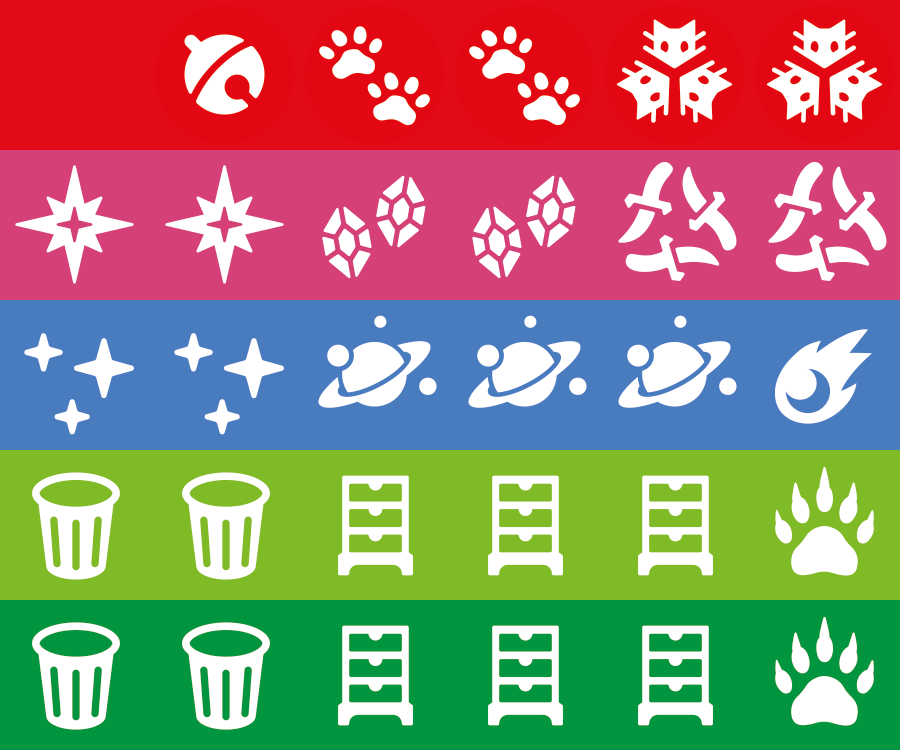
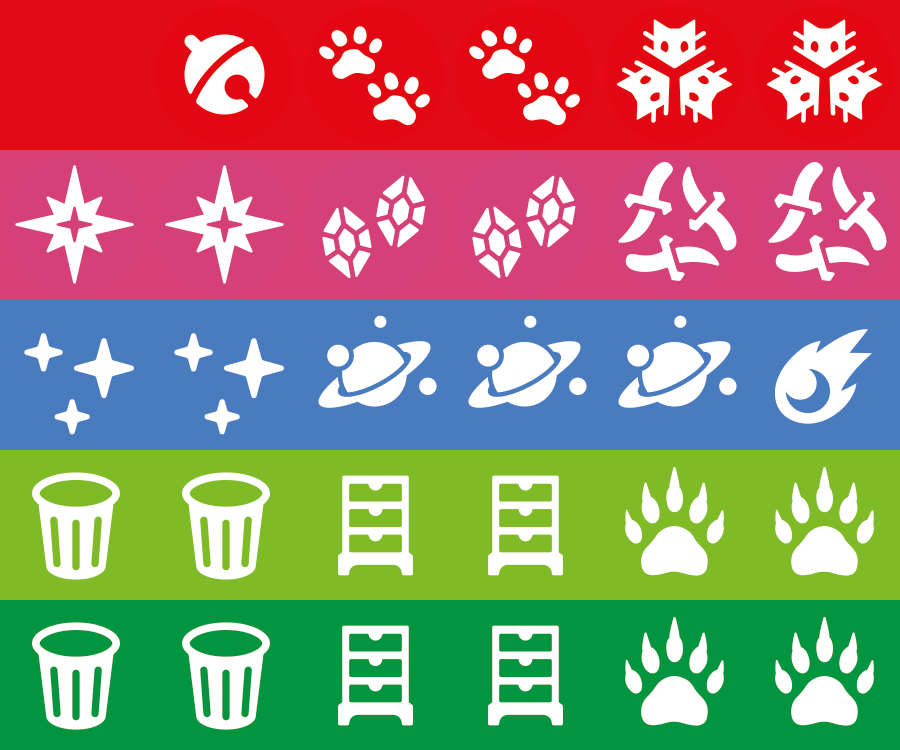
Update pangolin die faces: discard (2x), deck (2x), hand (2x)

Changed region(s): [[0.6844, 0.828, 0.8089, 0.9813], [0.6844, 0.6133, 0.8089, 0.7667]]

diff --git a/daleofmerchants.js b/daleofmerchants.js
@@ -561,9 +561,9 @@ define("components/DaleDie", ["require", "exports", "components/DaleAnimalfolk",
                 case 'hare':
                     return "<span class=\"daleofmerchants-log-span\">\n                    ".concat(DaleDie.getIconTpl(DaleDie.DIE_STARS), "\n                    ").concat(DaleDie.getIconTpl(DaleDie.DIE_STARS), "\n                    ").concat(DaleDie.getIconTpl(DaleDie.DIE_PLANET), "\n                    ").concat(DaleDie.getIconTpl(DaleDie.DIE_PLANET), "\n                    ").concat(DaleDie.getIconTpl(DaleDie.DIE_PLANET), "\n                    ").concat(DaleDie.getIconTpl(DaleDie.DIE_COMET), "\n                </span>");
                 case 'pangolin1':
-                    return "<span class=\"daleofmerchants-log-span\">\n                    ".concat(DaleDie.getIconTpl(DaleDie.DIE_DISCARD), "\n                    ").concat(DaleDie.getIconTpl(DaleDie.DIE_DISCARD), "\n                    ").concat(DaleDie.getIconTpl(DaleDie.DIE_DECK), "\n                    ").concat(DaleDie.getIconTpl(DaleDie.DIE_DECK), "\n                    ").concat(DaleDie.getIconTpl(DaleDie.DIE_DECK), "\n                    ").concat(DaleDie.getIconTpl(DaleDie.DIE_HAND), "\n                </span>");
+                    return "<span class=\"daleofmerchants-log-span\">\n                    ".concat(DaleDie.getIconTpl(DaleDie.DIE_DISCARD), "\n                    ").concat(DaleDie.getIconTpl(DaleDie.DIE_DISCARD), "\n                    ").concat(DaleDie.getIconTpl(DaleDie.DIE_DECK), "\n                    ").concat(DaleDie.getIconTpl(DaleDie.DIE_DECK), "\n                    ").concat(DaleDie.getIconTpl(DaleDie.DIE_HAND), "\n                    ").concat(DaleDie.getIconTpl(DaleDie.DIE_HAND), "\n                </span>");
                 case 'pangolin2':
-                    return "<span class=\"daleofmerchants-log-span\">\n                    ".concat(DaleDie.getIconTpl(DaleDie.DIE_DISCARD2), "\n                    ").concat(DaleDie.getIconTpl(DaleDie.DIE_DISCARD2), "\n                    ").concat(DaleDie.getIconTpl(DaleDie.DIE_DECK2), "\n                    ").concat(DaleDie.getIconTpl(DaleDie.DIE_DECK2), "\n                    ").concat(DaleDie.getIconTpl(DaleDie.DIE_DECK2), "\n                    ").concat(DaleDie.getIconTpl(DaleDie.DIE_HAND2), "\n                </span>");
+                    return "<span class=\"daleofmerchants-log-span\">\n                    ".concat(DaleDie.getIconTpl(DaleDie.DIE_DISCARD2), "\n                    ").concat(DaleDie.getIconTpl(DaleDie.DIE_DISCARD2), "\n                    ").concat(DaleDie.getIconTpl(DaleDie.DIE_DECK2), "\n                    ").concat(DaleDie.getIconTpl(DaleDie.DIE_DECK2), "\n                    ").concat(DaleDie.getIconTpl(DaleDie.DIE_HAND2), "\n                    ").concat(DaleDie.getIconTpl(DaleDie.DIE_HAND2), "\n                </span>");
             }
         };
         DaleDie.get3DDieTpl = function (die) {

diff --git a/source/client/components/DaleDie.ts b/source/client/components/DaleDie.ts
@@ -247,7 +247,7 @@ export class DaleDie {
                     ${DaleDie.getIconTpl(DaleDie.DIE_DISCARD)}
                     ${DaleDie.getIconTpl(DaleDie.DIE_DECK)}
                     ${DaleDie.getIconTpl(DaleDie.DIE_DECK)}
-                    ${DaleDie.getIconTpl(DaleDie.DIE_DECK)}
+                    ${DaleDie.getIconTpl(DaleDie.DIE_HAND)}
                     ${DaleDie.getIconTpl(DaleDie.DIE_HAND)}
                 </span>`;
             case 'pangolin2':
@@ -256,7 +256,7 @@ export class DaleDie {
                     ${DaleDie.getIconTpl(DaleDie.DIE_DISCARD2)}
                     ${DaleDie.getIconTpl(DaleDie.DIE_DECK2)}
                     ${DaleDie.getIconTpl(DaleDie.DIE_DECK2)}
-                    ${DaleDie.getIconTpl(DaleDie.DIE_DECK2)}
+                    ${DaleDie.getIconTpl(DaleDie.DIE_HAND2)}
                     ${DaleDie.getIconTpl(DaleDie.DIE_HAND2)}
                 </span>`;
         }

diff --git a/daleofmerchants.game.php b/daleofmerchants.game.php
@@ -3524,11 +3524,11 @@ class DaleOfMerchants extends DaleTableBasic
                         break;
                     case 2:
                     case 3:
-                    case 4:
                         $die_value = DIE_DECK;
                         $die_label = clienttranslate('deck');
                         $die_icon = DIE_DECK;
                         break;
+                    case 4:
                     case 5:
                         $die_value = DIE_HAND;
                         $die_label = clienttranslate('hand');
@@ -3546,11 +3546,11 @@ class DaleOfMerchants extends DaleTableBasic
                         break;
                     case 2:
                     case 3:
-                    case 4:
                         $die_value = DIE_DECK2;
                         $die_label = clienttranslate('deck');
                         $die_icon = DIE_DECK2;
                         break;
+                    case 4:
                     case 5:
                         $die_value = DIE_HAND2;
                         $die_label = clienttranslate('hand');
